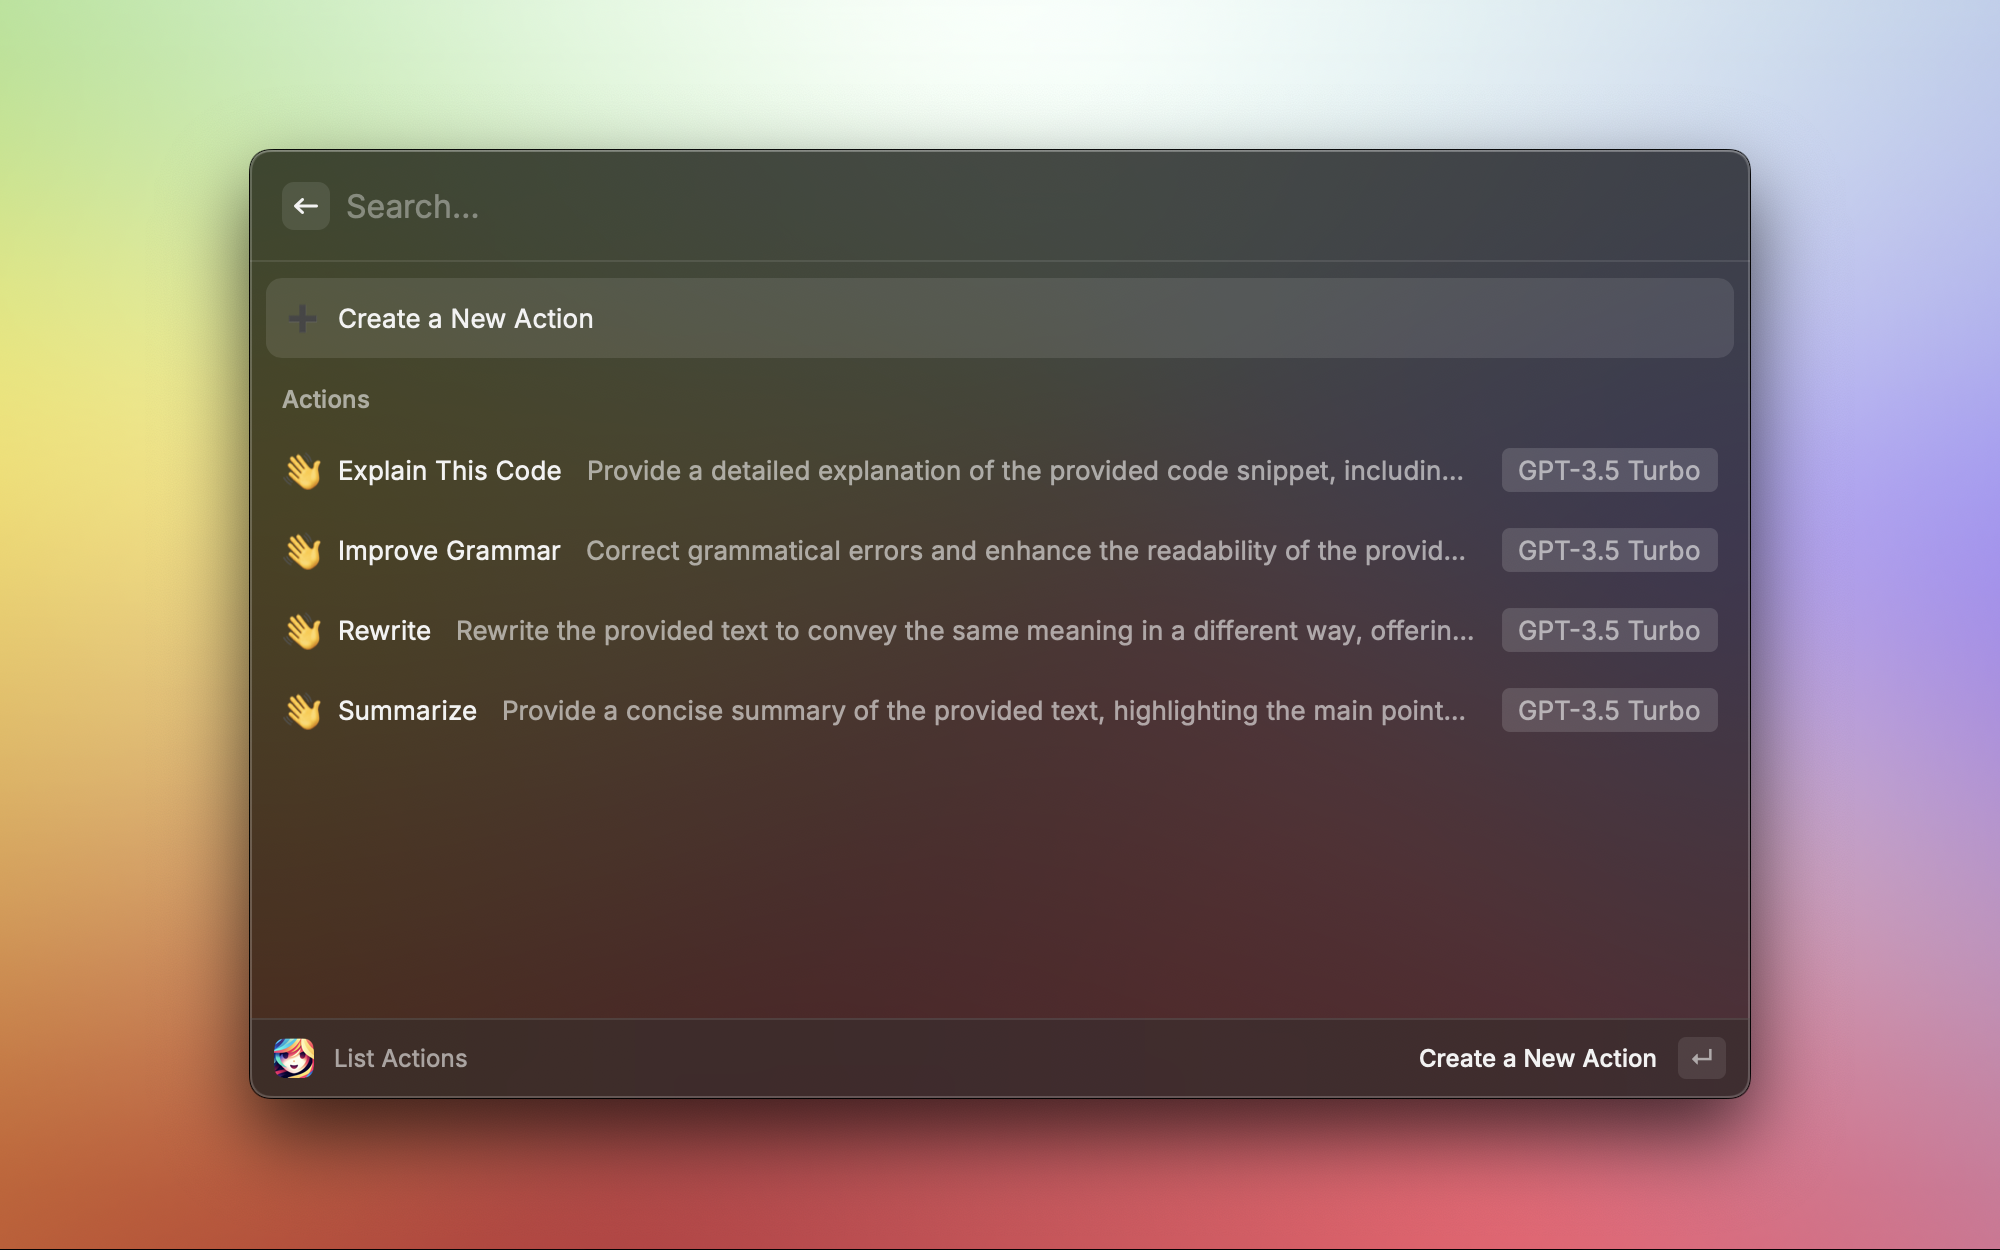
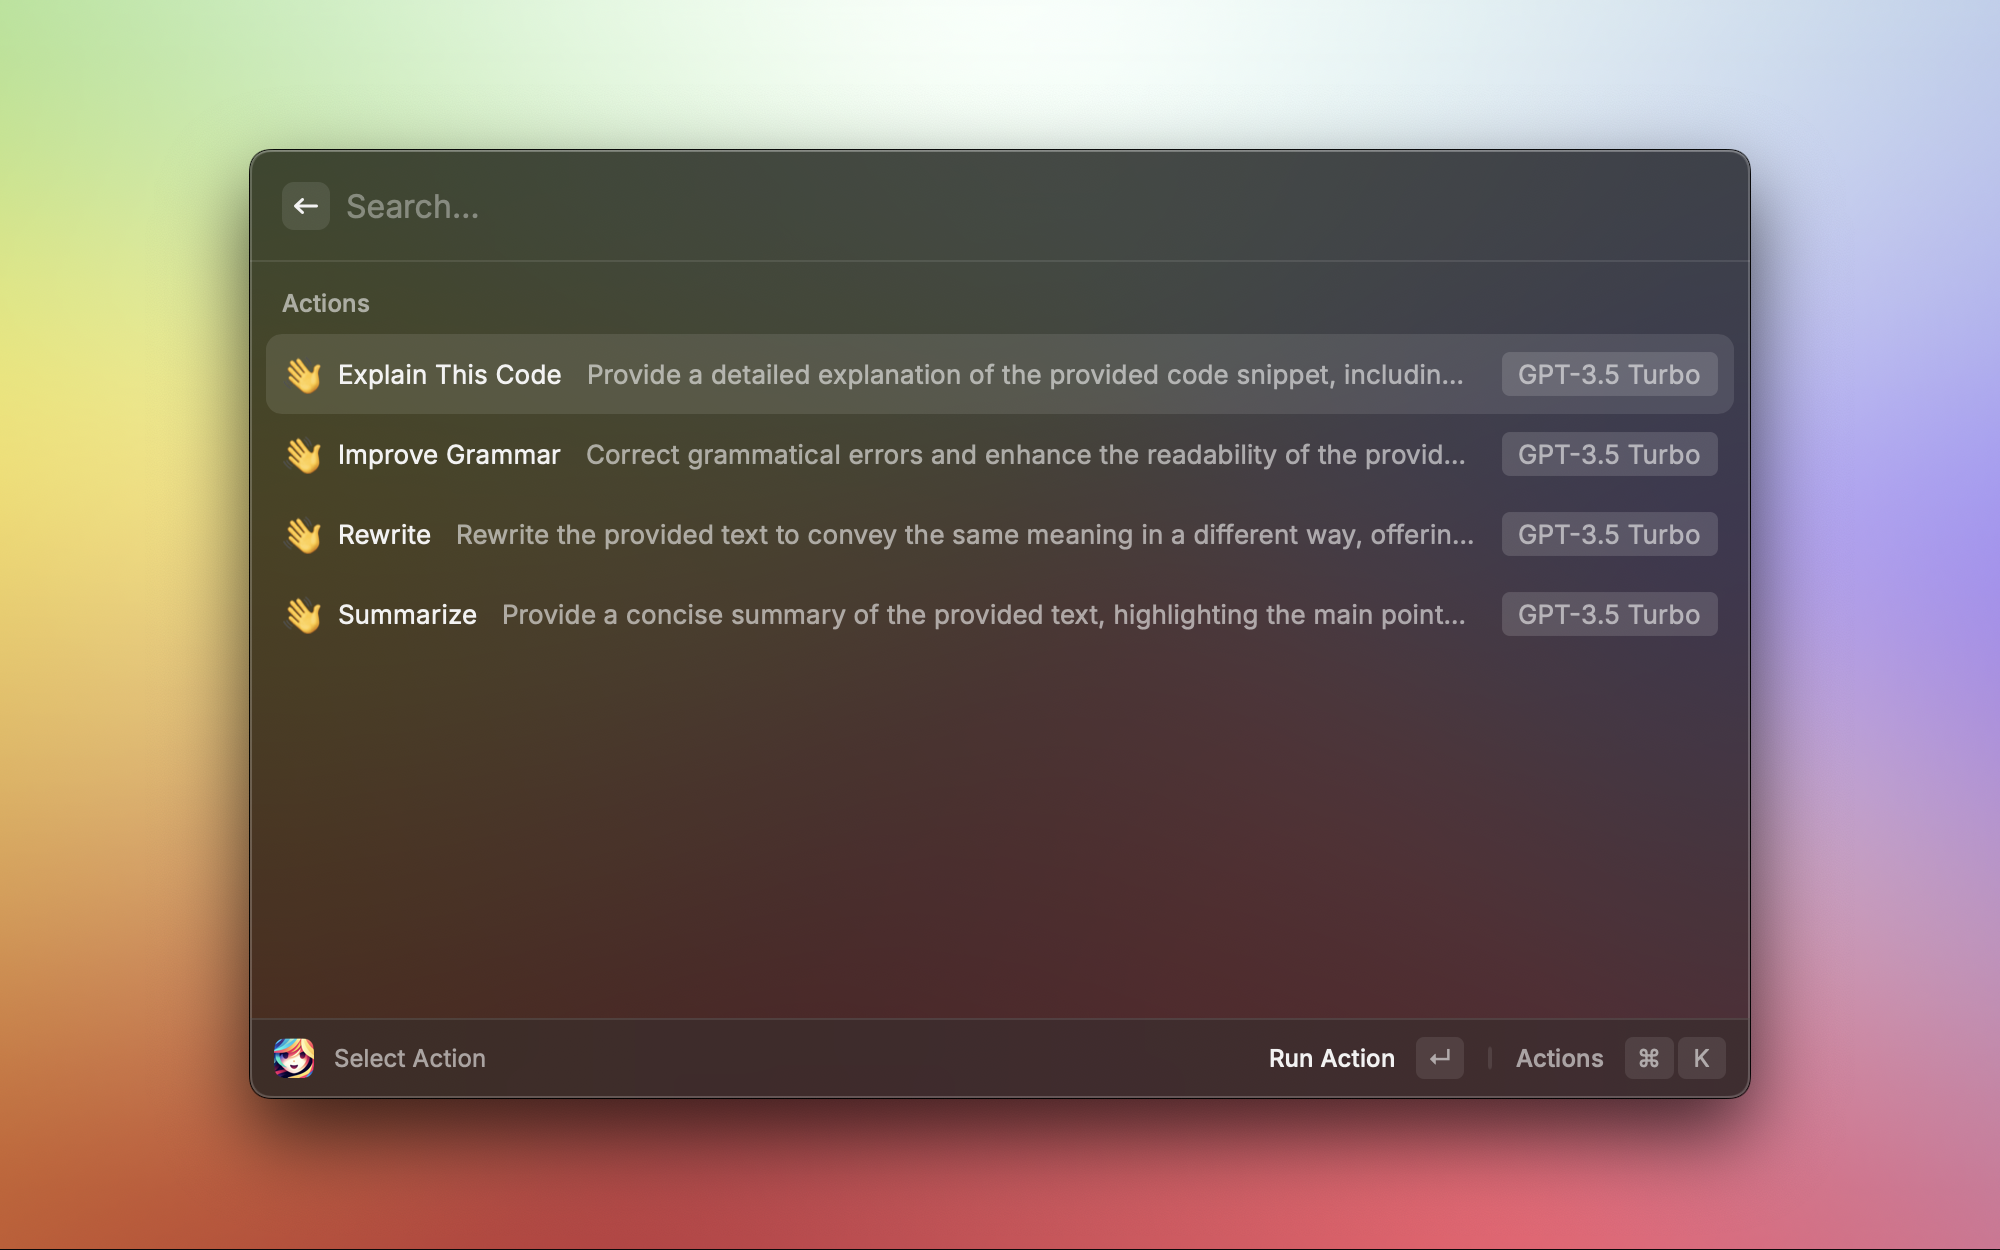
chore: Update README and CHANGELOG.

diff --git a/README.md b/README.md
@@ -4,7 +4,14 @@
 
 <h1 align="center">Alice AI - Your ChatGPT Actions Companion</h1>
 
-Before you start using Alice AI, you need to set up your OpenAI API key.
+# 📚 Introduction
+
+Alice AI is a daily productivity tool that uses your selection to execute actions using OpenAI's GPT models. It allows you to easily browse your actions, execute them, and go back to your result history. You can also add your own actions, create quicklinks to them, and back them up.
+
+# 🚀 Getting Started
+
+Before you start using Alice AI, you need to set up your OpenAI API key:
+
 ![Set up your OpenAI API key](https://github.com/wojciechkrol/alice-ai-raycast/raw/master/metadata/alice-ai-7.png)
 
 # 🎉 Features
@@ -39,6 +46,12 @@ Alice AI allows you to easily customize your actions. You can add new actions, e
 Alice AI allows you to quickly access your actions from the raycast root. Just create a quicklink to your actions.
 
 ![Quicklink to your actions](https://github.com/wojciechkrol/alice-ai-raycast/raw/master/metadata/alice-ai-6.png)
+
+## Export and import your actions 📤 📥
+
+Alice AI allows you to export and import your actions. You can easily share your actions with others or back them up.
+
+![Export and import your actions](https://github.com/wojciechkrol/alice-ai-raycast/raw/master/metadata/alice-ai-8.png)
 
 # 🚀 Supported OpenAI models
 

diff --git a/CHANGELOG.md b/CHANGELOG.md
@@ -1,5 +1,11 @@
 # Changelog
 
+## [New Additions] - April 10, 2024
+
+- Moved create action to the separate command.
+- Added export and import actions.
+- Added "Paste Result" action to the action result view.
+
 ## [Initial Version] - April 08, 2024
 
 Introducing the initial version of the Alice AI. This version includes the following features:
